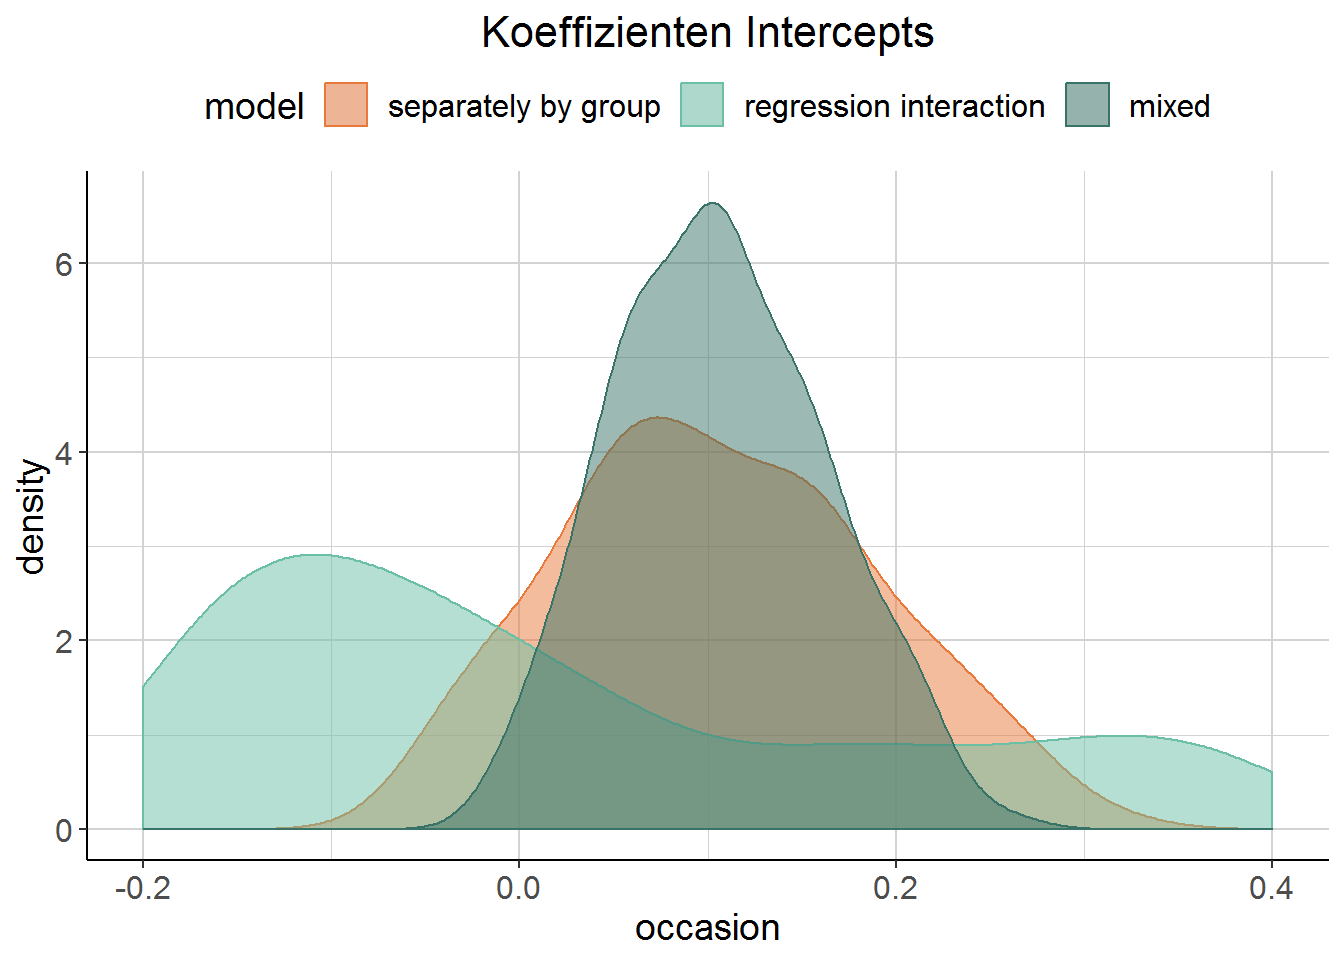
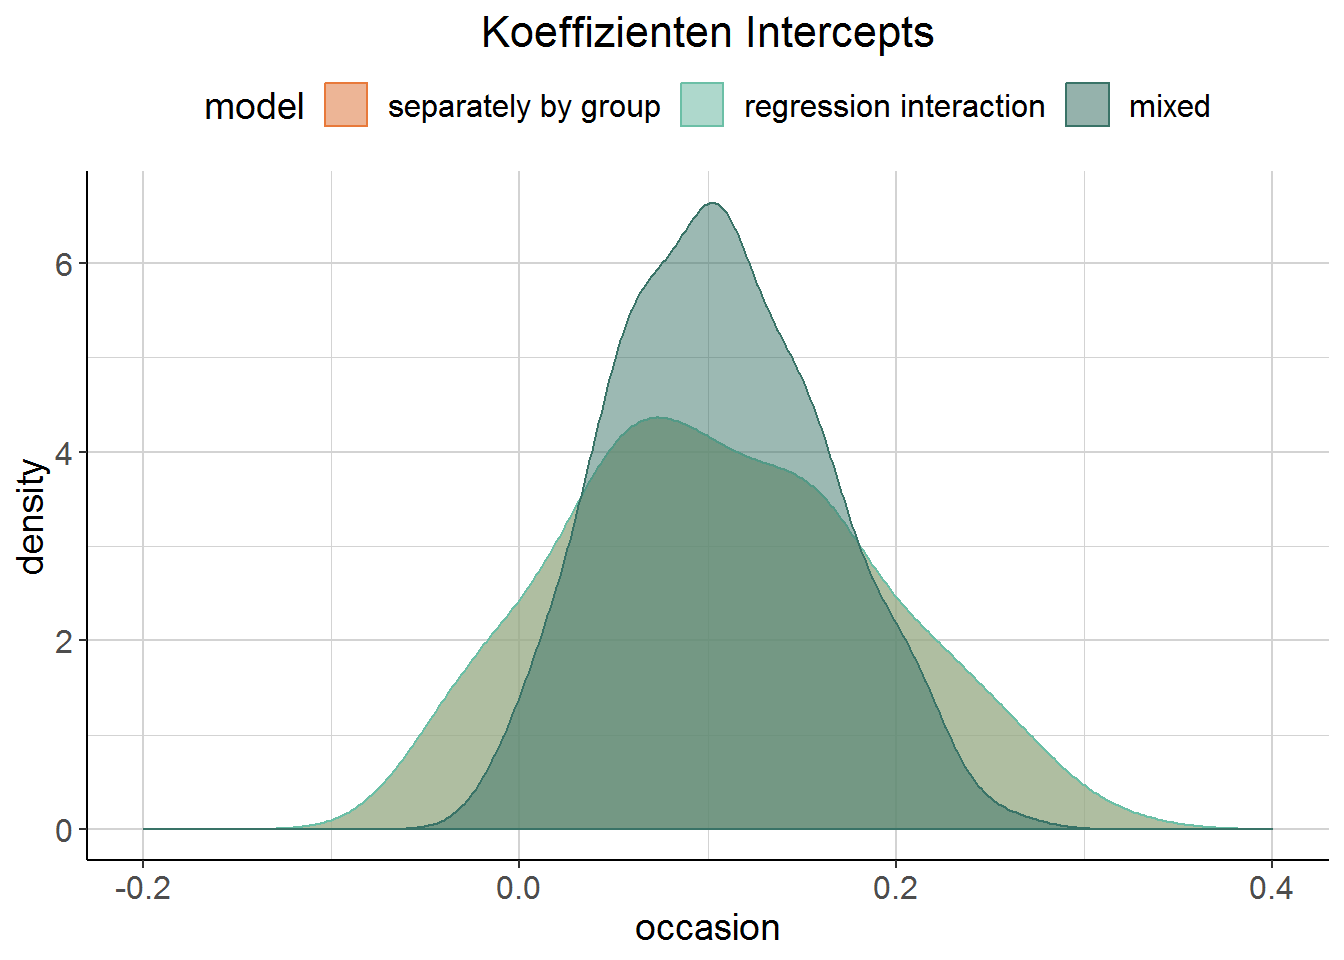
fixed density plots

Changed region(s): [[0.0938, 0.4375, 0.9688, 0.875]]

diff --git a/mixed_models/mixed-models-vs-einzelne-regressionen.html b/mixed_models/mixed-models-vs-einzelne-regressionen.html
@@ -176,7 +176,7 @@ code span.wa { color: #60a0b0; font-weight: bold; font-style: italic; } /* Warni
 <h3><span class="header-section-number">3.1.1</span> Density</h3>
 <p>Der Vergleich mit einer einzelnen Regression pro Student liegt nahe, aber hier wird es etwas merkwürdig. Er gibt hier den folgenden Code an, um separate Regressionen pro Student durchzuführen (ich habe ihn etwas modifiziert). Aus der Beschreibung von <code>lmList</code>, scheinbar eine extrem lustige Funktion: “Fit a list of <code>lm</code> or <code>glm</code> objects with a common model for different subgroups of the data.”</p>
 <pre class="sourceCode r"><code class="sourceCode r">gpa_lm_by_group &lt;-<span class="st"> </span><span class="kw">lmList</span>(gpa <span class="op">~</span><span class="st"> </span>occasion <span class="op">|</span><span class="st"> </span>student, gpa)</code></pre>
-<p>Clark schreibt dazu: “Let’s compare these results to the ones we would have gotten had we run a separate regression for each student. In what follows we see the distribution of of (sic) the estimated intercept and slope coefficients for all the students. Note that these are the same estimates one would have gotten with a fixed effects model with an occasion by student interaction.” Aber irgendwie scheint das alles nicht dasselbe zu sein, denn ich habe besagtes Modell auch aufgestellt und es kommt was anderes dabei rum (zumal das Intercept in dem Fall ja auch immer dasselbe ist). Ich weiß nicht, was er sonst damit meinen sollte und ich finde es verstörend. Vielleicht geht mir da noch ein Licht auf.</p>
+<p>Dabei ist die Regression pro Gruppe exakt dasselbe wie eine lineare Regression mit Interaktionsterm. Ein bisschen hässlich in den Densityplots, aber die die Regression mit Interaktion und die pro Gruppe überlappen exakt.</p>
 <pre class="sourceCode r"><code class="sourceCode r">lm_regr &lt;-<span class="st"> </span><span class="kw">lm</span>(gpa <span class="op">~</span><span class="st"> </span>occasion<span class="op">*</span>student, <span class="dt">data =</span> gpa)</code></pre>
 <p><img src="01_first_things_first_files/figure-html/unnamed-chunk-50-1.png" width="672" /></p>
 <p><img src="01_first_things_first_files/figure-html/unnamed-chunk-51-1.png" width="672" /></p>
